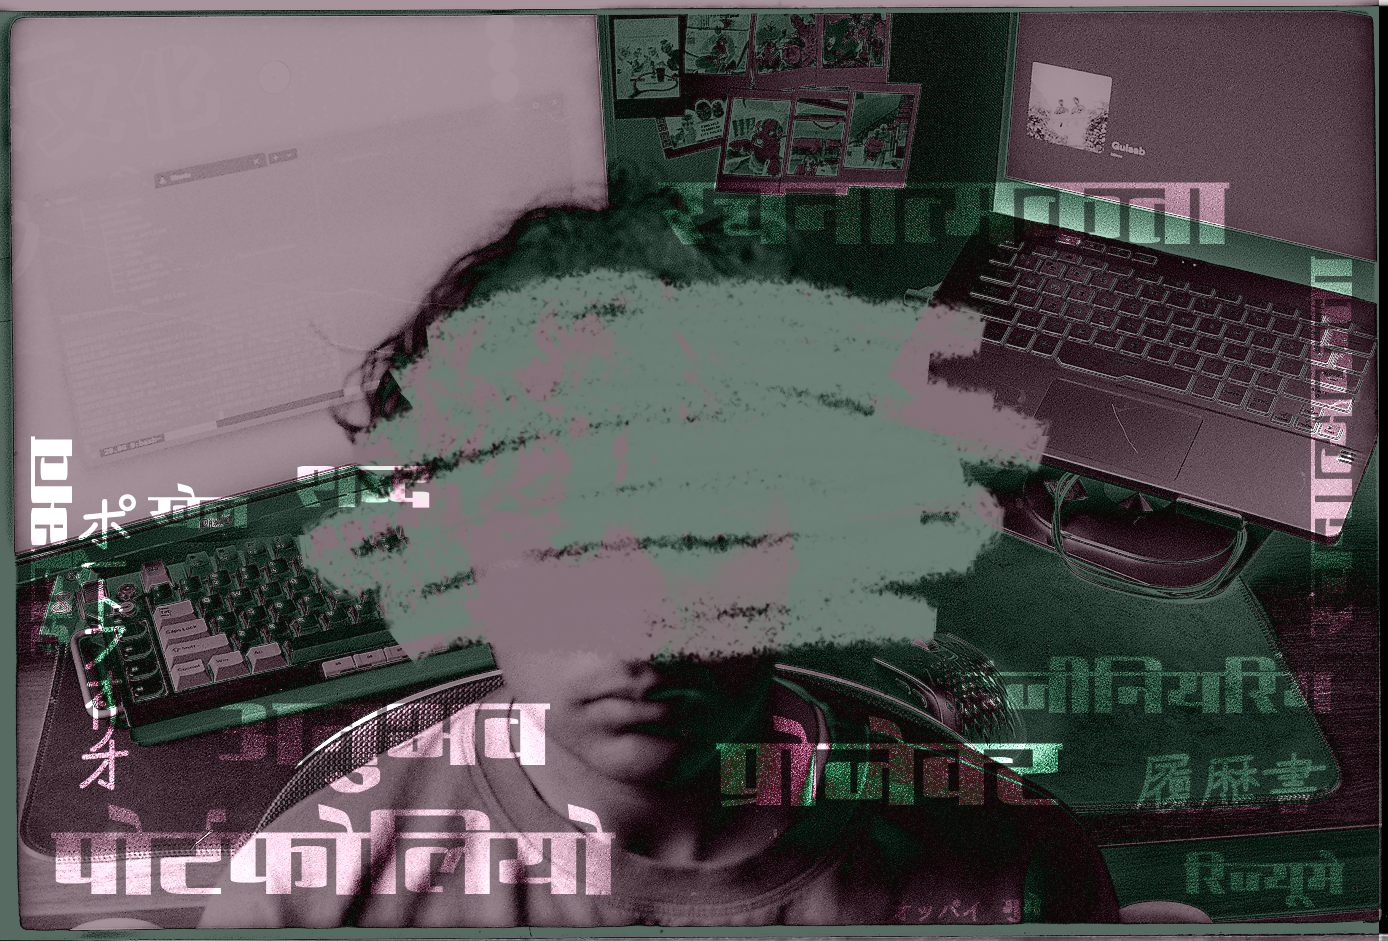
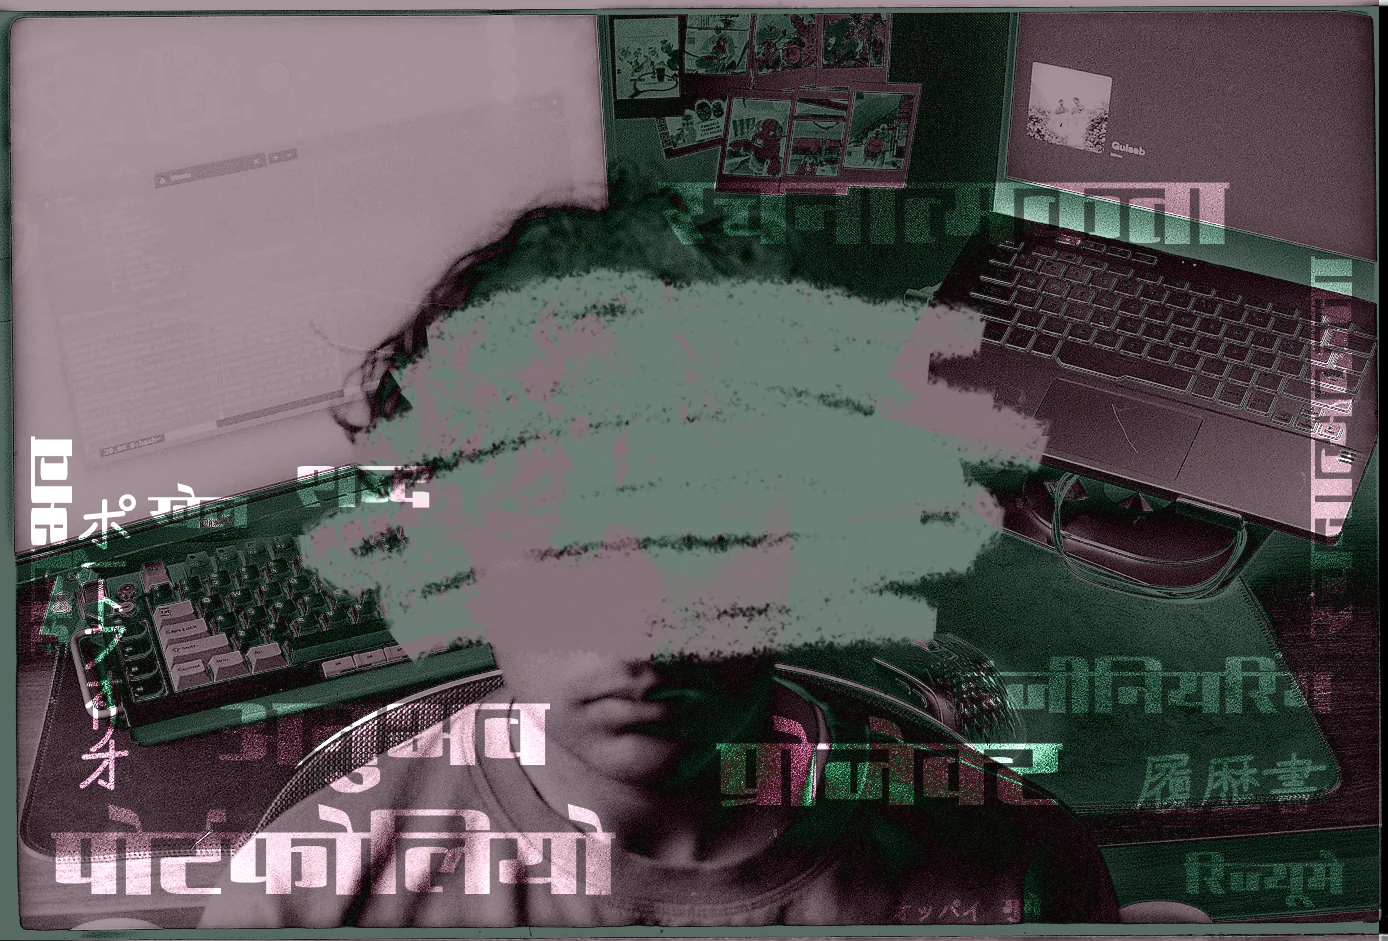
perf: lighter hero images and a near-instant reveal; volunteering updates
- Hero images: lossless -> lossy WebP (Gradient q92, bg q88), 3.7 MB -> 0.96 MB.
  The hero is drawn under a 1px blur and the static-noise overlay, so the
  difference doesn't show.
- Reveal: gradient 0.45s/9 steps after 0.1s, foreground 0.35s/7 steps after 0.2s,
  so it draws in during the loading screen's fade instead of after it.
- Japanese Culture Club VP ended Aug 2026; add CSA Representative (since May 2022).

Changed region(s): [[0.4957, 0.7705, 0.7435, 0.8629]]

diff --git a/src/lib/components/HomeIntro.svelte b/src/lib/components/HomeIntro.svelte
@@ -48,7 +48,7 @@
     ondragstart={(e) => e.preventDefault()}
     onload={() => (bgLoaded = true)}
     class:loaded={bgLoaded}
-    style="--tv-load-duration: 0.8s; --tv-load-steps: 10; --tv-load-delay: 0.8s"
+    style="--tv-load-duration: 0.35s; --tv-load-steps: 7; --tv-load-delay: 0.2s"
     class="tv-load absolute object-cover object-center md:object-contain h-full w-[100vh] md:w-full md:h-full p-4 select-none"
   />
 
@@ -57,14 +57,15 @@
 
 <style>
   /* Top-to-bottom reveal in chunky steps, like a picture drawing in on an old TV. The default
-     delay overlaps the end of the loading screen's 0.8s fade so the reveal is still visible. */
+     delay is short: the page mounts as the loading screen starts its 0.8s fade, so the picture
+     draws in through the fade and is done by the time the overlay is gone. */
   .tv-load {
     clip-path: inset(0 0 100% 0);
   }
 
   .tv-load.loaded {
-    animation: tv-load var(--tv-load-duration, 1.2s)
-      steps(var(--tv-load-steps, 15), end) var(--tv-load-delay, 0.6s) forwards;
+    animation: tv-load var(--tv-load-duration, 0.45s)
+      steps(var(--tv-load-steps, 9), end) var(--tv-load-delay, 0.1s) forwards;
   }
 
   @keyframes tv-load {
